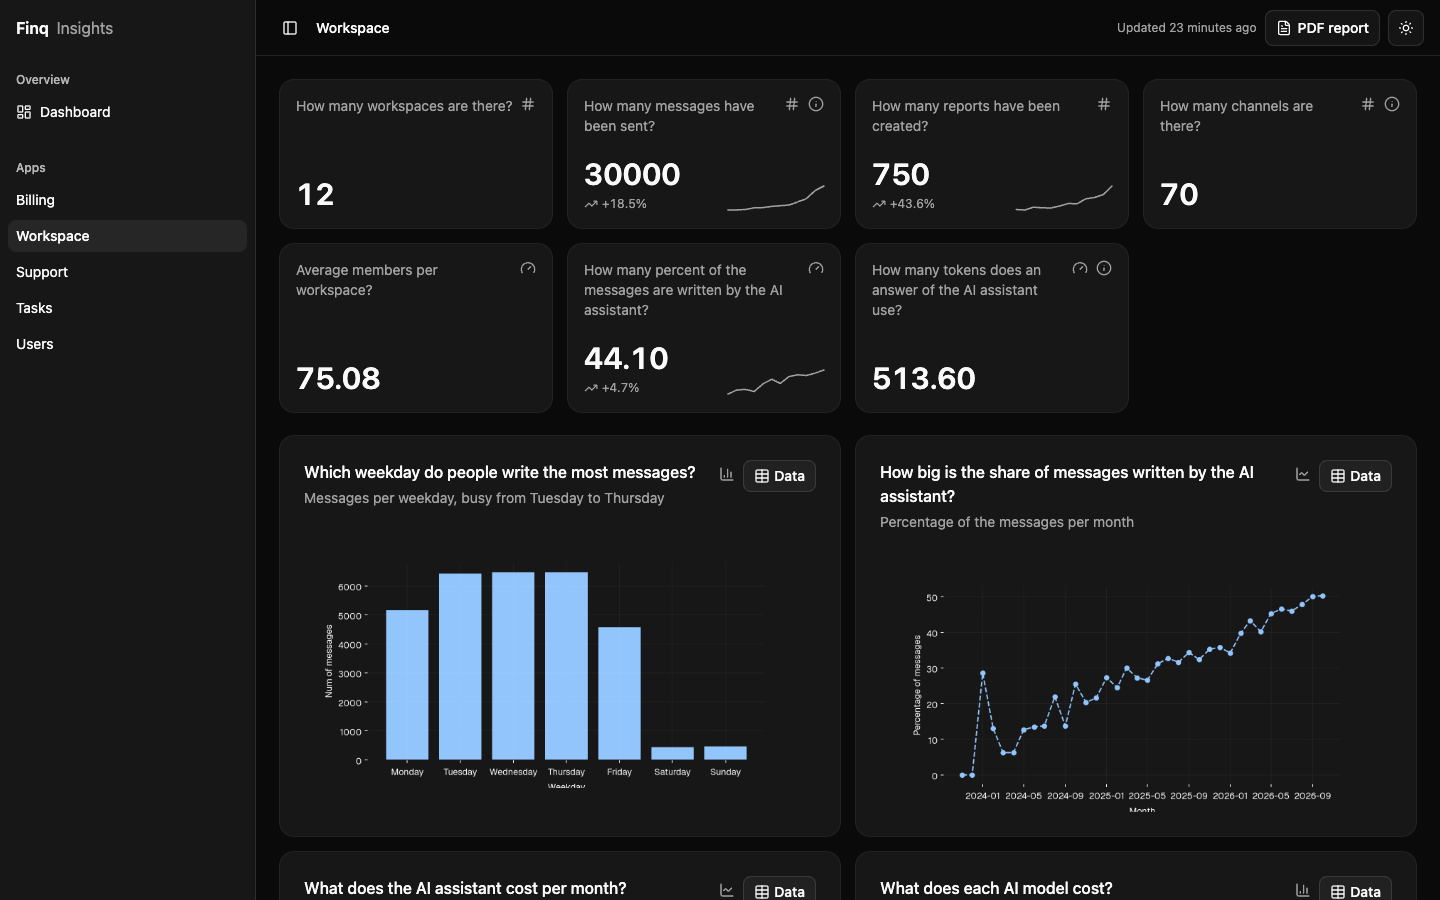
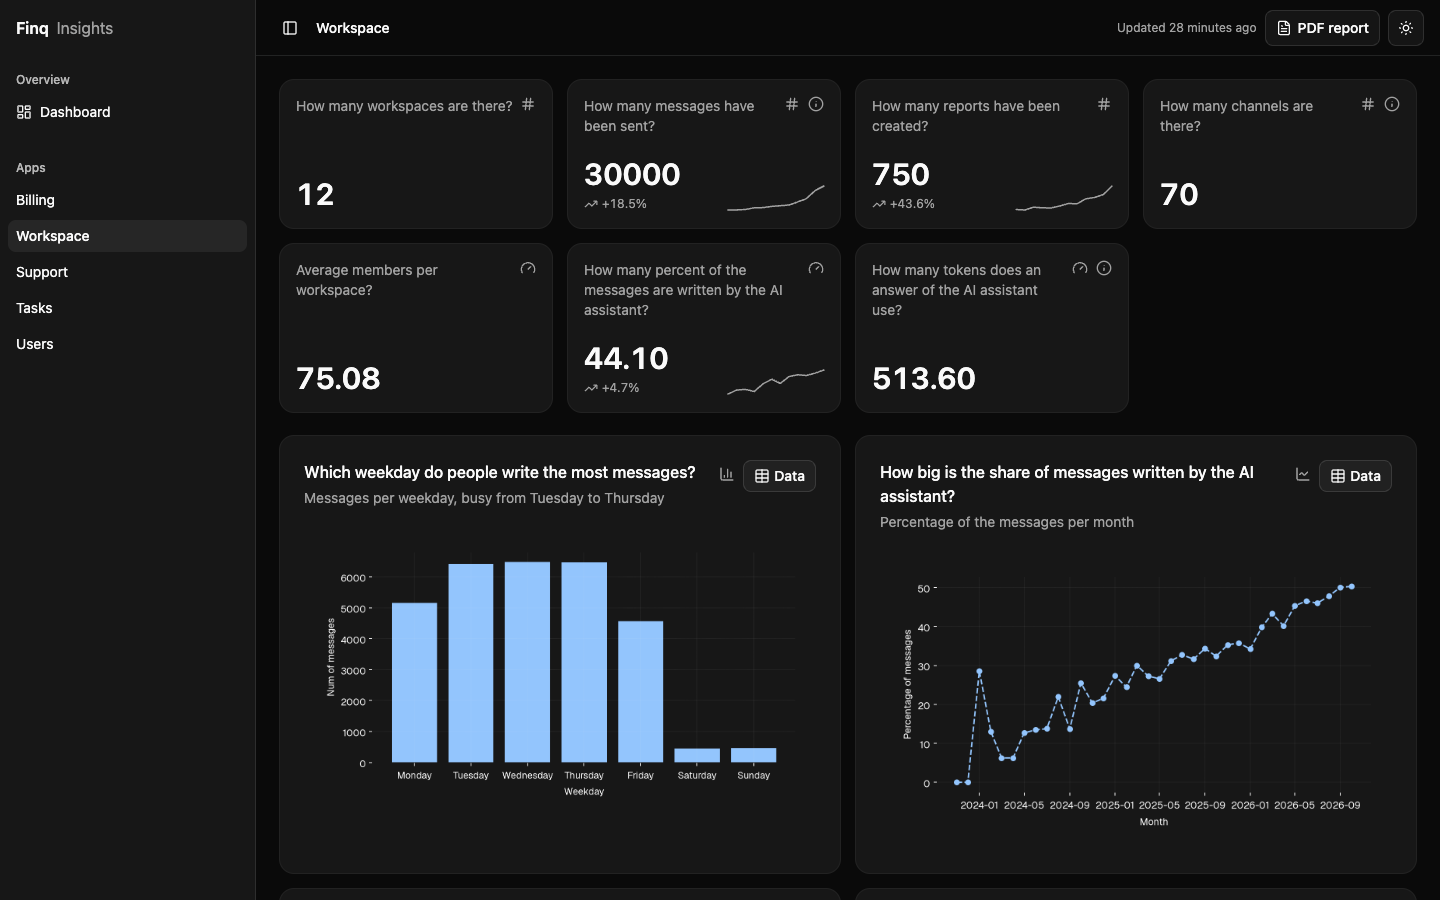
fix: keep the axis labels of the charts inside the image

diff --git a/django_insights/charts.py b/django_insights/charts.py
@@ -121,7 +121,9 @@ def to_bytes_io(fig: Figure) -> bytes:
     """Render Matplotlib figure to file-like object"""
     flike = io.BytesIO()
     with chart_style():
-        fig.savefig(flike, dpi=settings.INSIGHTS_CHART_DPI)
+        fig.savefig(
+            flike, dpi=settings.INSIGHTS_CHART_DPI, bbox_inches='tight', pad_inches=0.3
+        )
 
     return flike.getvalue()
 
